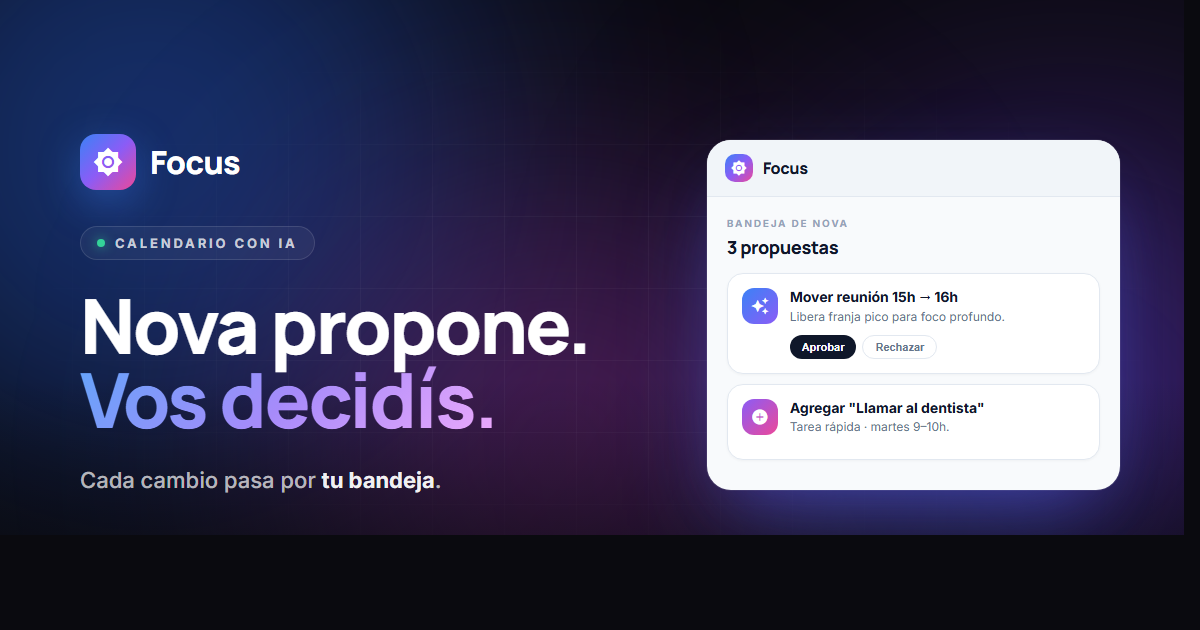
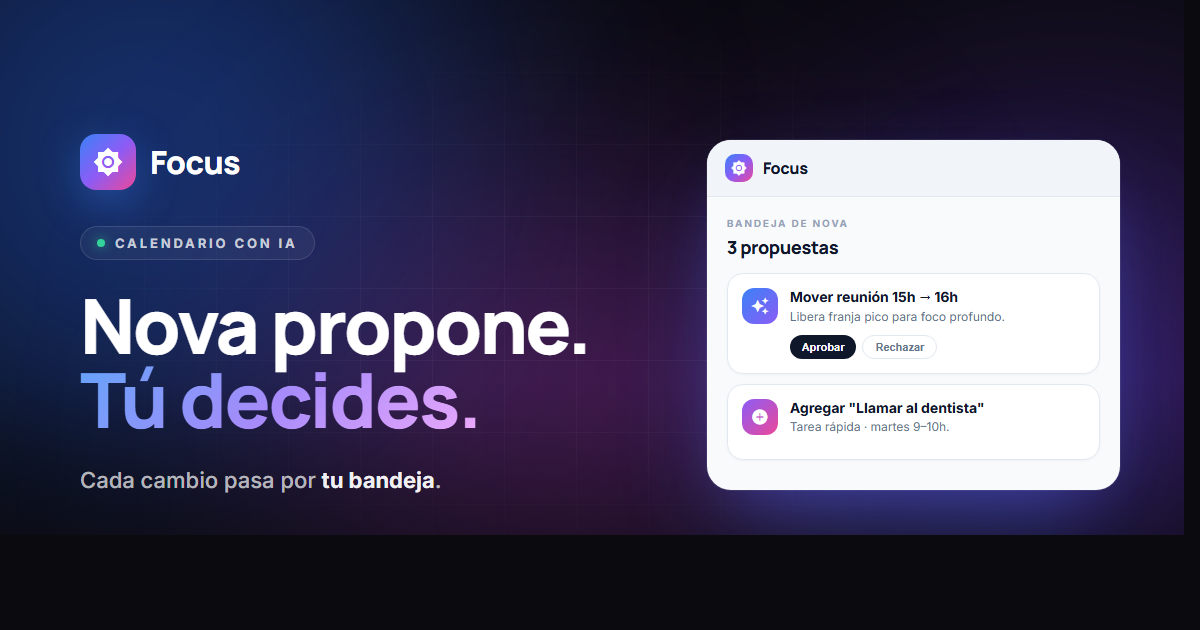
i18n: voseo argentino -> español neutro en UI + landing + OG
- InstallAppCard: "Instalá"->"Instala", "Abrite"->"Ábrela", "Tocá"->"Toca", "Seleccioná"->"Selecciona"
- SettingsView: "Iniciá"->"Inicia", "vos aprobás o rechazás"->"tú apruebas o rechazas", "Importá/exportá"->"Importa/exporta", "Sincronizá"->"Sincroniza"
- SuggestionsInbox + NovaWidget: "Revisá"->"Revisa"
- pwa.js log: "Recargá"->"Recarga"
- Landing + OG: "vos apruebas"->"tú apruebas", "Vos decidís"->"Tú decides"
- build-og.mjs error message: neutralizar

Changed region(s): [[0.0617, 0.573, 0.4317, 0.6937]]

diff --git a/src/components/InstallAppCard.jsx b/src/components/InstallAppCard.jsx
@@ -65,10 +65,10 @@ export default function InstallAppCard() {
           </div>
           <div className="min-w-0 flex-1">
             <p className="text-[13.5px] font-semibold text-slate-900">
-              Instalá Focus como app
+              Instala Focus como app
             </p>
             <p className="mt-0.5 text-[12px] leading-snug text-slate-500">
-              Abrite directo desde tu pantalla, sin barra del navegador. Funciona offline.
+              Ábrela directo desde tu pantalla, sin barra del navegador. Funciona offline.
             </p>
             <div className="mt-2.5 flex items-center gap-1.5">
               <button
@@ -119,15 +119,15 @@ export default function InstallAppCard() {
               <ol className="space-y-3 text-[13.5px] leading-relaxed text-slate-700">
                 <li className="flex gap-2">
                   <span className="flex h-6 w-6 flex-shrink-0 items-center justify-center rounded-full bg-slate-900 text-[11px] font-bold text-white">1</span>
-                  Tocá el botón <span className="material-symbols-outlined mx-0.5 align-middle text-[17px] text-blue-500">ios_share</span> Compartir en Safari.
+                  Toca el botón <span className="material-symbols-outlined mx-0.5 align-middle text-[17px] text-blue-500">ios_share</span> Compartir en Safari.
                 </li>
                 <li className="flex gap-2">
                   <span className="flex h-6 w-6 flex-shrink-0 items-center justify-center rounded-full bg-slate-900 text-[11px] font-bold text-white">2</span>
-                  Seleccioná <b>Añadir a pantalla de inicio</b>.
+                  Selecciona <b>Añadir a pantalla de inicio</b>.
                 </li>
                 <li className="flex gap-2">
                   <span className="flex h-6 w-6 flex-shrink-0 items-center justify-center rounded-full bg-slate-900 text-[11px] font-bold text-white">3</span>
-                  Tocá <b>Añadir</b>. Listo — Focus queda como app.
+                  Toca <b>Añadir</b>. Listo — Focus queda como app.
                 </li>
               </ol>
               <button

diff --git a/src/views/SettingsView.jsx b/src/views/SettingsView.jsx
@@ -89,7 +89,7 @@ export default function SettingsView({ onOpenImport }) {
         <Row
           icon={user ? 'account_circle' : 'person_off'}
           label={user ? user.email : 'Modo invitado'}
-          sub={user ? 'Sesión activa · datos en la nube' : 'Iniciá sesión para sincronizar en todos tus dispositivos'}
+          sub={user ? 'Sesión activa · datos en la nube' : 'Inicia sesión para sincronizar en todos tus dispositivos'}
           onClick={() => setAuthModal(true)}
         >
           <span className="material-symbols-outlined text-[16px] text-slate-300">chevron_right</span>
@@ -180,7 +180,7 @@ export default function SettingsView({ onOpenImport }) {
         <Row
           icon="auto_awesome"
           label="Modo propuesta"
-          sub="Nova sugiere cambios — vos aprobás o rechazás cada uno"
+          sub="Nova sugiere cambios — tú apruebas o rechazas cada uno"
         >
           <div className="w-10 h-6 rounded-full bg-primary flex items-center justify-end px-1 flex-shrink-0">
             <div className="w-4 h-4 rounded-full bg-white shadow-sm" />
@@ -200,7 +200,7 @@ export default function SettingsView({ onOpenImport }) {
         <Row
           icon="upload_file"
           label="Importar / Exportar calendario"
-          sub="Importá desde Google Calendar, exportá a .ics"
+          sub="Importa desde Google Calendar, exporta a .ics"
           onClick={onOpenImport}
         >
           <span className="material-symbols-outlined text-[16px] text-slate-300">chevron_right</span>
@@ -221,7 +221,7 @@ export default function SettingsView({ onOpenImport }) {
           <Row
             icon="login"
             label="Iniciar sesión"
-            sub="Sincronizá tus datos en todos tus dispositivos"
+            sub="Sincroniza tus datos en todos tus dispositivos"
             onClick={() => setAuthModal(true)}
           />
         )}

diff --git a/public/landing/index.html b/public/landing/index.html
@@ -209,7 +209,7 @@
             <div class="h-11 w-11 rounded-2xl bg-gradient-to-br from-blue-500 via-violet-500 to-fuchsia-500 flex items-center justify-center shadow-lg shadow-blue-500/30 group-hover:scale-110 transition-transform"><span class="material-symbols-outlined text-white text-[22px]" style="font-variation-settings: 'FILL' 1">auto_awesome</span></div>
             <h3 class="font-headline text-[22px] font-extrabold tracking-tight">Nova nunca toca sin permiso</h3>
           </div>
-          <p class="text-[14.5px] leading-relaxed text-white/65">Cada cambio que sugiere Nova pasa por una bandeja — vos apruebas o rechazas uno a uno. Nada de sorpresas al despertar con tu agenda movida.</p>
+          <p class="text-[14.5px] leading-relaxed text-white/65">Cada cambio que sugiere Nova pasa por una bandeja — tú apruebas o rechazas uno a uno. Nada de sorpresas al despertar con tu agenda movida.</p>
         </div>
         <div class="reveal group glass rounded-[24px] p-7 transition-all hover:-translate-y-1">
           <div class="flex items-center gap-3 mb-4">

diff --git a/src/lib/pwa.js b/src/lib/pwa.js
@@ -18,7 +18,7 @@ export function registerServiceWorker() {
           if (!newSW) return
           newSW.addEventListener('statechange', () => {
             if (newSW.state === 'installed' && navigator.serviceWorker.controller) {
-              console.log('[Focus] 🔄 Nueva versión disponible. Recargá para aplicarla.')
+              console.log('[Focus] 🔄 Nueva versión disponible. Recarga para aplicarla.')
               // Dispatch un evento para que la UI muestre un toast si quiere
               window.dispatchEvent(new CustomEvent('focus:sw-update-available'))
             }

diff --git a/src/components/NovaWidget.jsx b/src/components/NovaWidget.jsx
@@ -248,8 +248,8 @@ export default function NovaWidget({
         setChips(proposalChips)
 
         const suffix = actions.length === 1
-          ? 'Revisá la propuesta en la bandeja antes de aplicarla.'
-          : `Te preparé ${actions.length} propuestas. Revisalas en la bandeja.`
+          ? 'Revisa la propuesta en la bandeja antes de aplicarla.'
+          : `Preparé ${actions.length} propuestas. Revísalas en la bandeja.`
         setReply(replyText ? `${replyText} ${suffix}` : suffix)
       } else {
         // Modo directo (fallback): ejecutar inmediatamente

diff --git a/src/components/SuggestionsInbox.jsx b/src/components/SuggestionsInbox.jsx
@@ -239,7 +239,7 @@ export default function SuggestionsInbox({
             {/* Footer con info */}
             <footer className="border-t border-slate-200 bg-white px-5 py-3">
               <p className="text-[11px] leading-relaxed text-slate-500">
-                Nova nunca cambia tu calendario sin tu aprobación. Revisá cada propuesta antes de aplicarla.
+                Nova nunca cambia tu calendario sin tu aprobación. Revisa cada propuesta antes de aplicarla.
               </p>
             </footer>
           </motion.aside>

diff --git a/landing/og-template.html b/landing/og-template.html
@@ -154,7 +154,7 @@
 
       <h1>
         Nova propone.<br/>
-        <span class="gradient-text">Vos decidís.</span>
+        <span class="gradient-text">Tú decides.</span>
       </h1>
 
       <p class="subtitle">
